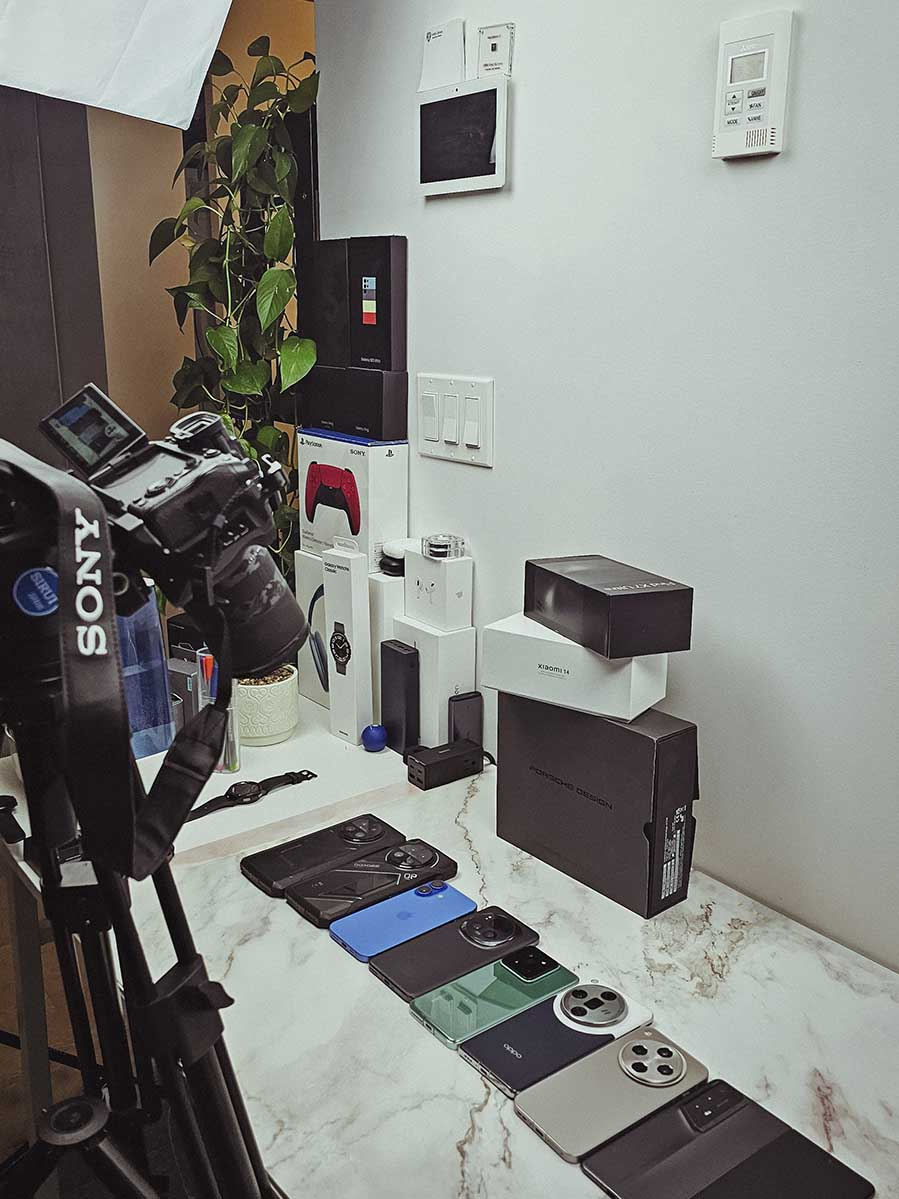
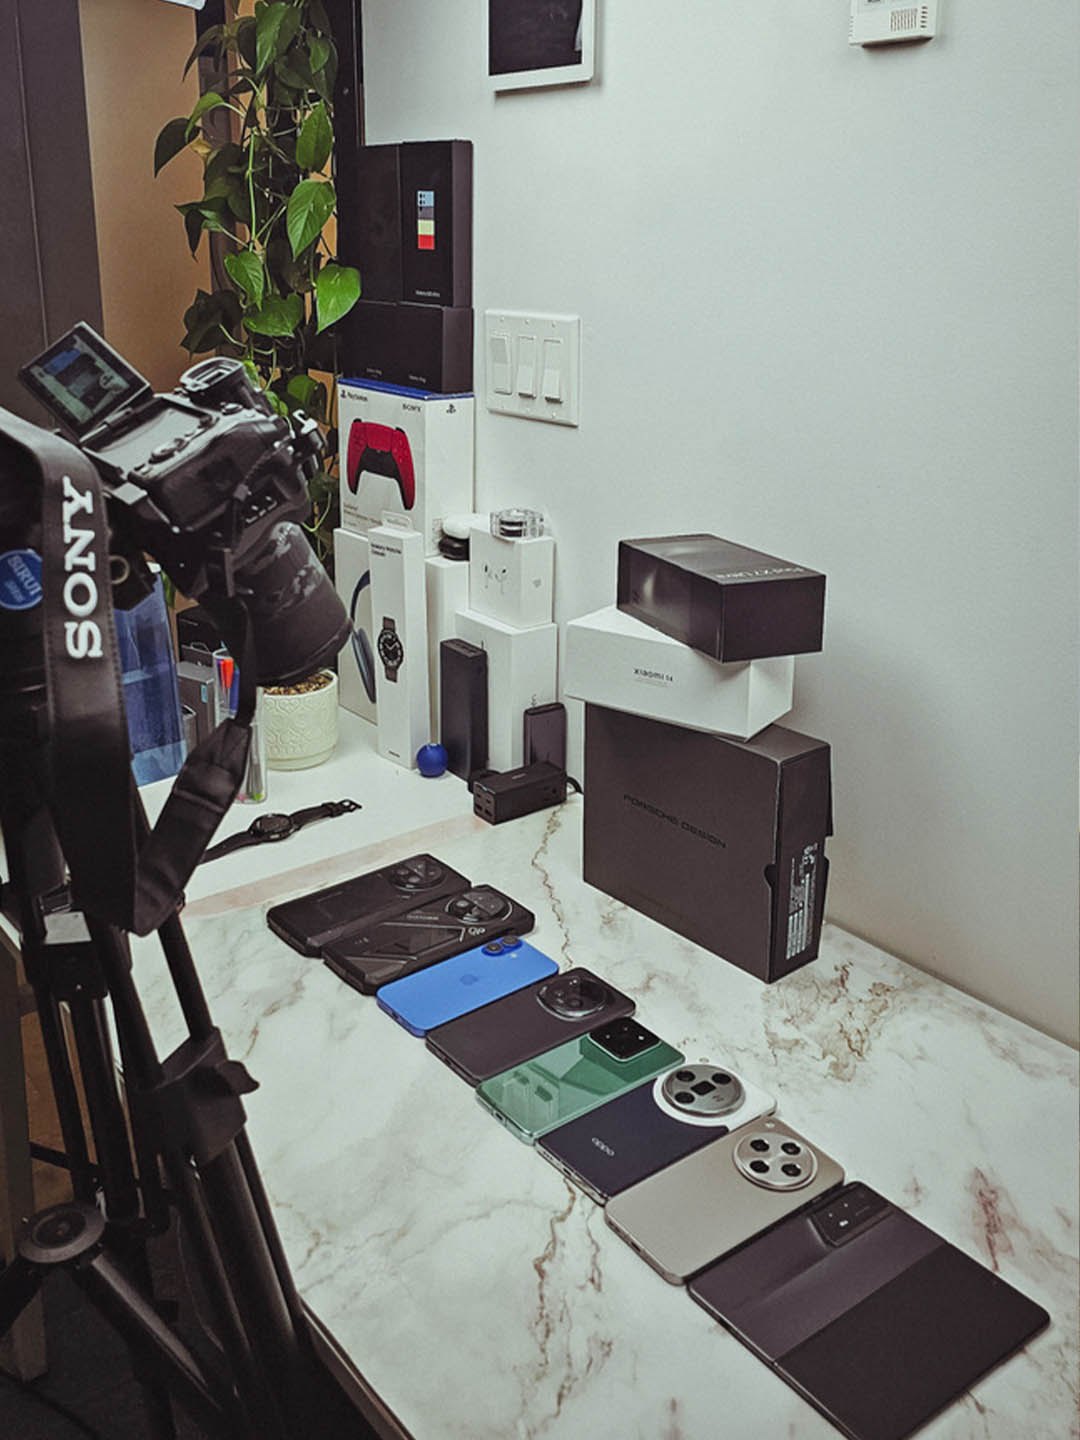
feat(gallery): refresh photos and captions

diff --git a/src/components/Gallery.js b/src/components/Gallery.js
@@ -80,7 +80,7 @@ const Gallery = () => {
     <div id="hackathons" className="pp-section pp-scrollable section counter">
       <div className="container">
         <div className="title">
-          <h3>Hackathons & Gallery.</h3>
+          <h3>Gallery.</h3>
         </div>
       </div>
       <div className="container" ref={galleryRef}>
@@ -92,27 +92,32 @@ const Gallery = () => {
                 src="/static/img/gallery/chimef2f.jpg"
                 width={452.5}
                 height={603}
-                title="Team CHIME/FRB, McGill University, January 2025."
-                alt="Me with the CHIME/FRB team at McGill University."
+                title="Science at the DRAO, in Penticton, BC."
+                alt="Me at the DRAO in Penticton, BC."
               />
             </div>
             <div className="media-body gallery-caption">
-              <p>McGill University, January 2025.</p>
+              <p>
+                Science at the Dominion Radio Astronomy Observatory. Penticton,
+                BC.
+              </p>
             </div>
           </SwiperSlide>
           <SwiperSlide className="gallery media d-flex">
             <div>
               <Image
                 className="gallery-img"
-                src="/static/img/gallery/ces2024.jpg"
+                src="/static/img/gallery/ces2026.jpg"
                 width={452.5}
                 height={603}
-                title="Me at CES 2024 in Las Vegas."
-                alt="Me at CES 2024 in Las Vegas."
+                title="Me at CES 2026 in Las Vegas."
+                alt="Me at CES 2026 in Las Vegas."
               />
             </div>
             <div className="media-body gallery-caption">
-              <p>@ CES 2024 tech convention in Las Vegas.</p>
+              <p>
+                CES 2026 tech convention in Las Vegas. Third one I've attended.
+              </p>
             </div>
           </SwiperSlide>
           <SwiperSlide className="gallery media d-flex">
@@ -146,7 +151,7 @@ const Gallery = () => {
             </div>
             <div className="media-body gallery-caption">
               <p>
-                At CS Games 2023, in UQAC, Quebec - 4th Place Full-Stack
+                At CS Games 2023, in UQAC Saguenay, QC - 4th Place in Full-Stack
                 Development (uWindsor Team B).
               </p>
             </div>
@@ -173,8 +178,8 @@ const Gallery = () => {
                 width={452.5}
                 height={603}
                 src="/static/img/gallery/sony.jpg"
-                title="Studio setup."
-                alt="A picture of my studio setup."
+                title="Tech stuff."
+                alt="Tech stuff."
               />
             </div>
             <div className="media-body gallery-caption">

diff --git a/styles/master.sass b/styles/master.sass
@@ -927,7 +927,7 @@
 			.theme-light &
 				filter: invert(1)
 			
-	div:nth-child(5)
+	div:nth-child(4)
 		div > div > div > img
 			width: 90%
 			.theme-light &
